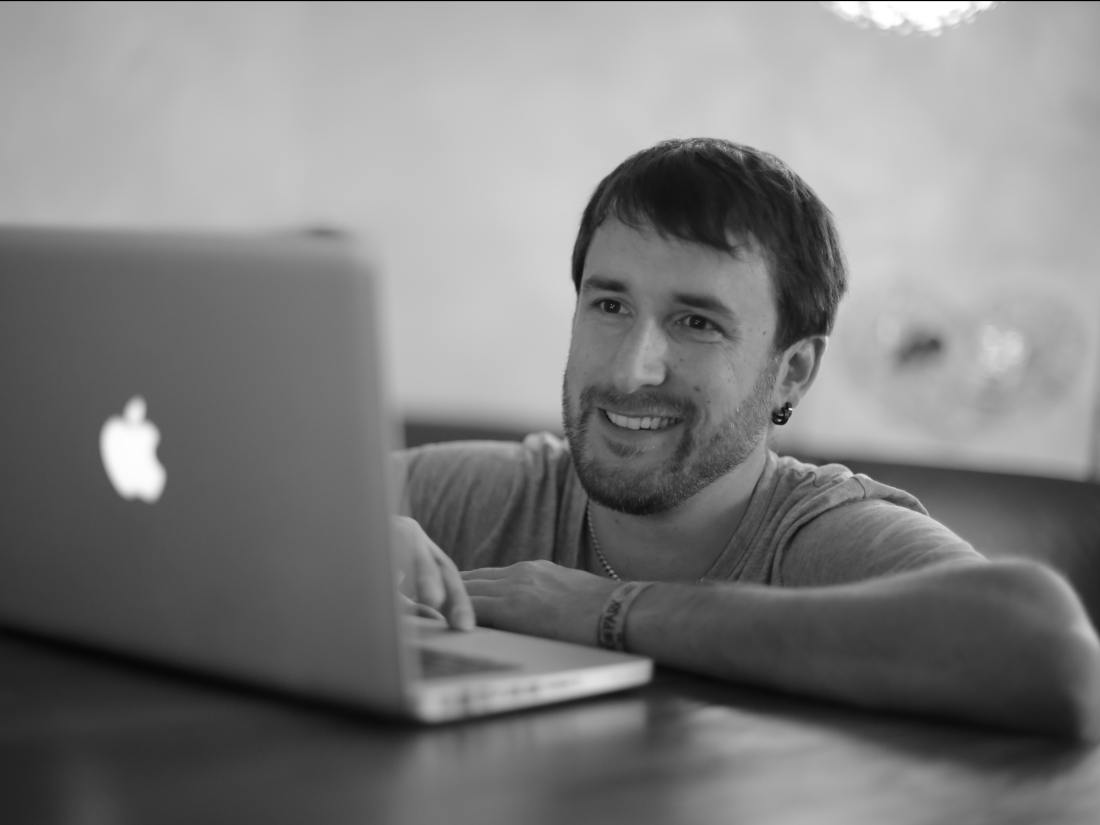
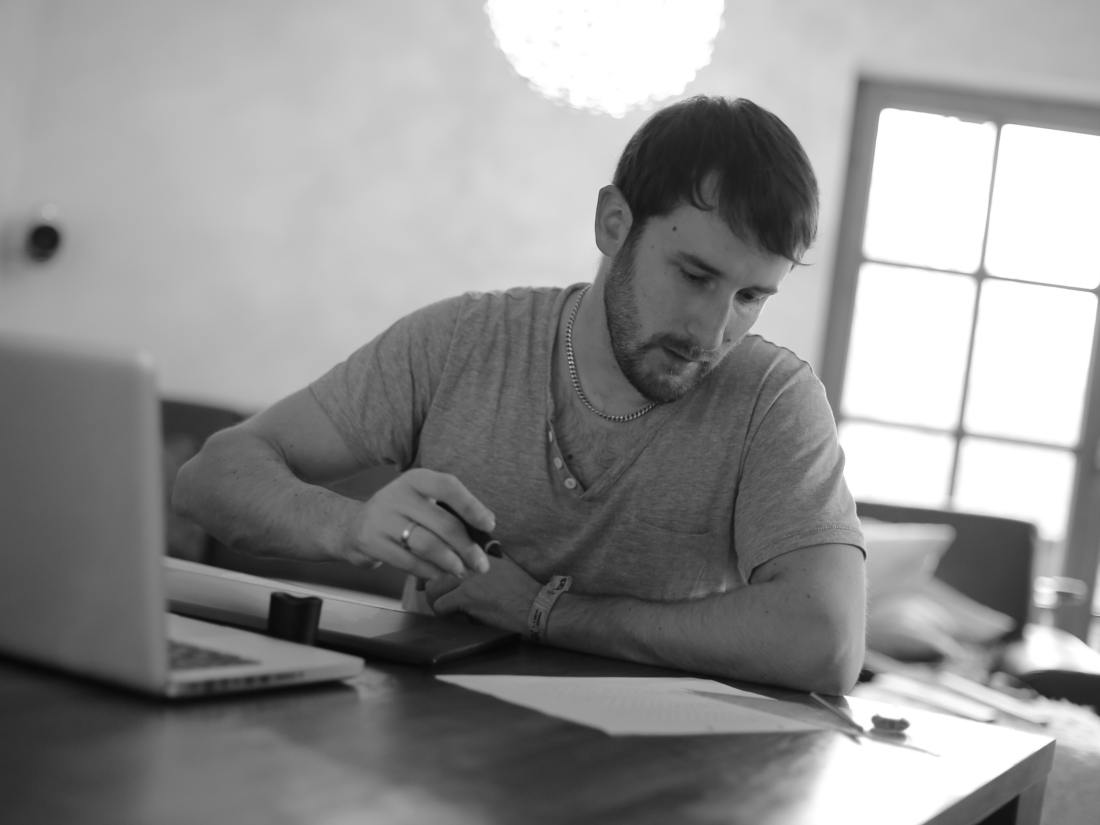
Tisch

diff --git a/static/ueber-mich.md b/static/ueber-mich.md
@@ -34,13 +34,11 @@ einen ausziehbaren Esstisch und einen Wohnzimmertisch aus Nussbaumholz zum Beisp
 ,dann auch für Freunde und mit der Gründung von RUPPERTdesign 
 hat das Ganze eine Eigendynamik über Empfehlungen angenommen, was mich sehr freut. 
 
-{% include image.html url="/img/simon3.jpg" description="Plannung" type="small" %}
-
 Ich bin ein sehr visueller Mensch – 
 tolle Materialien und ein außergewöhnliches und klares Design begeistern mich. 
 Ich freue mich sehr darüber, wenn Ihnen meine Arbeit gefällt und ich etwas für Sie fertigen darf. 
 Dann kontaktieren Sie mich gerne.
 
-{% include image.html url="/img/simon4.jpg" description="Simon Ruppert" type="small" %}
+{% include image.html url="/img/simon3.jpg" description="Simon Ruppert" type="small" %}
 
 Ihr Simon Ruppert

diff --git a/holzwerke/_posts/2014-01-15-esstisch01.md b/holzwerke/_posts/2014-01-15-esstisch01.md
@@ -1,0 +1,29 @@
+---
+layout: post
+title:  "Esszimmertisch mit Bank"
+date:   2014-01-15
+intro: Eine lange Tafel
+---
+
+...
+
+{% include image.html url="/holzwerke/img/esstisch01/esstisch01a.jpg" description="Esstisch" %}
+
+
+{% include image.html url="/holzwerke/img/esstisch01/esstisch01b.jpg" description="Esstisch" %}
+
+
+{% include image.html url="/holzwerke/img/esstisch01/esstisch01c.jpg" description="Esstisch" %}
+
+
+{% include image.html url="/holzwerke/img/esstisch01/esstisch01d.jpg" description="Esstisch" %}
+
+
+**Starkes Holzwerk**   
+Artikelnummer \| Holzart \| Holzgröße \| Preis
+
+* **Esstisch**   
+	RD.200.031  \| 	Nussbaum \| ca. L 180 + 100 x B 100 x H  78 \| 2800 EUR
+	
+* **3er Sitzbank**       
+	RD.200.032  \| 	Nussbaum \| ca. L 150 x T 50 x H 94 \| 450 EUR
